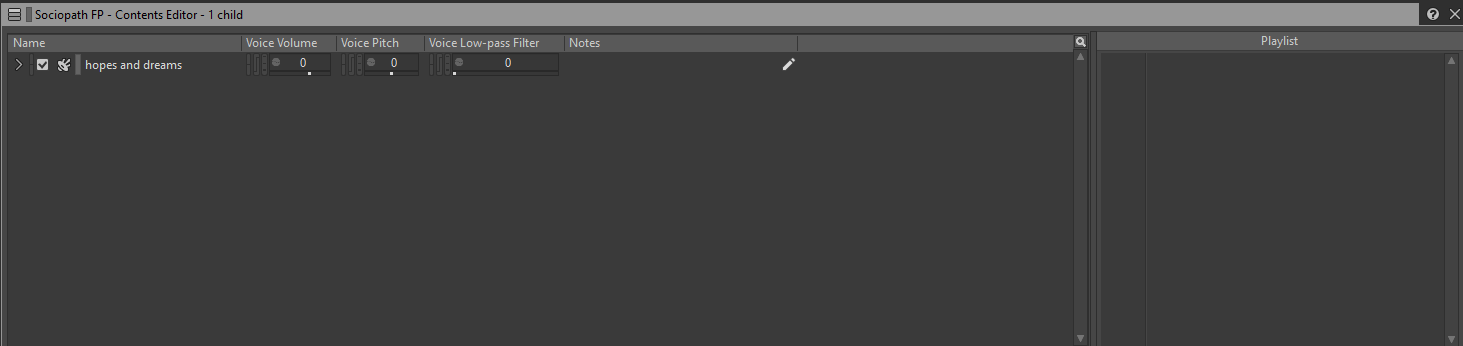
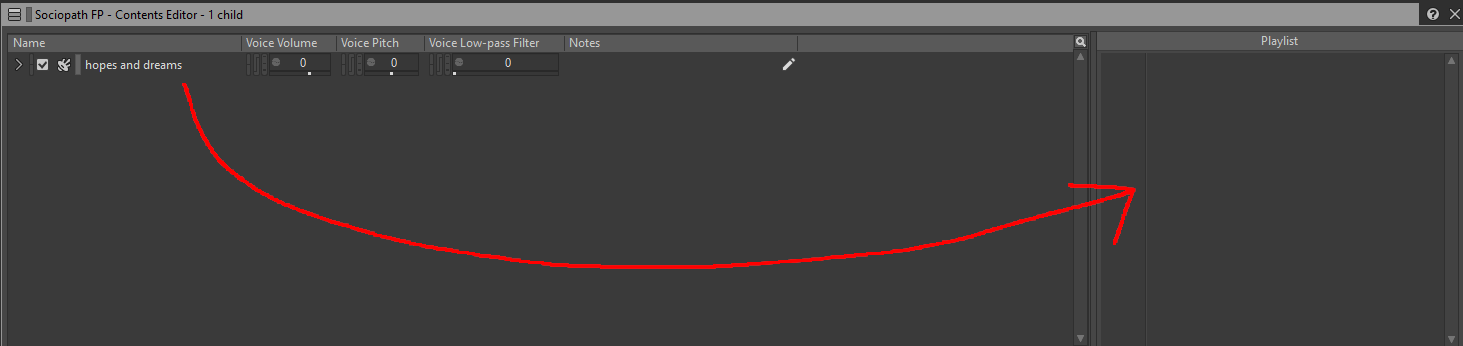
misc changes

diff --git a/README.md b/README.md
@@ -16,9 +16,17 @@ https://gamest23.github.io/PD3WwiseAudioModding
 
 - Requires Python 3.4 or above
 
+- Visual Studio Code recommended for editing
+
 Clone this Repo
 
-Run Command Prompt inside root folder, and run the following:
+Either run Command Prompt inside root folder, and run the following:
+
+`.\venv\Scripts\activate`
+
+`mkdocs serve`
+
+Or open the root folder in Visual Studio Code, and in the terminal section run the following:
 
 `.\venv\Scripts\activate`
 
@@ -26,4 +34,4 @@ Run Command Prompt inside root folder, and run the following:
 
 ----
 
-**THIS PROJECT IS NOT COMPLETE**
+**THIS PROJECT IS STILL A WORK IN PROGRESS**

diff --git a/docs/index.md b/docs/index.md
@@ -106,8 +106,8 @@ You can navigate between pages with the arrows on the bottom of the page.
     - [x] Paking Your Main Menu Jukebox Mod
 
 ??? "Current Versions"
-    Wwise Project ver `0.8`
+    Wwise Project ver `0.8.5`
 
     Unreal Engine Project ver `1.0`
 
-    Guide ver `0.8`
+    Guide ver `0.8.5`
